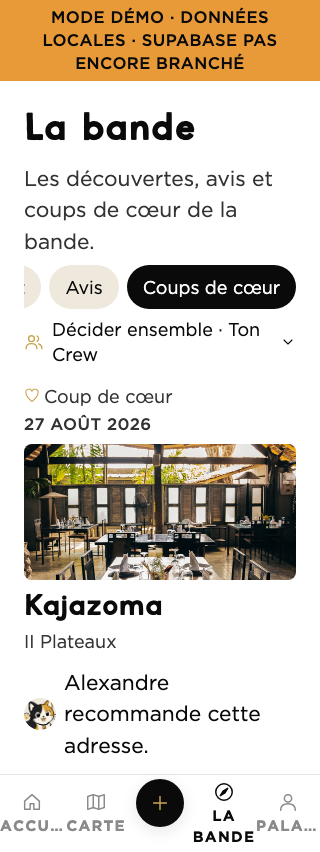
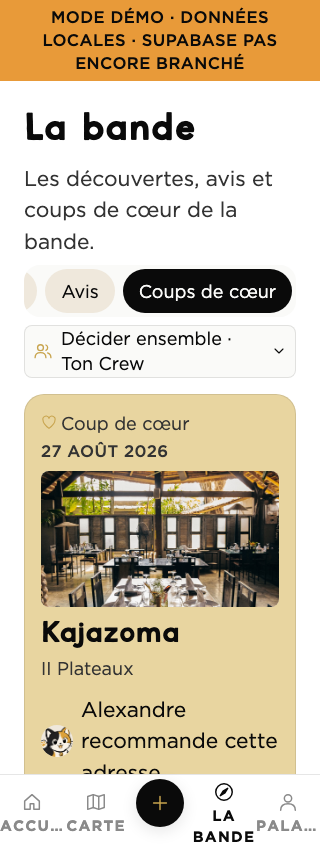
fix(ui): distinguer les blocs et garder les filtres sur une ligne

diff --git a/app/app/(tabs)/meute.tsx b/app/app/(tabs)/meute.tsx
@@ -100,13 +100,20 @@ export default function MeuteScreen() {
               horizontal
               showsHorizontalScrollIndicator={false}
               testID="community-filters"
+              style={{
+                backgroundColor: theme.colors.surface.editorial,
+                borderRadius: theme.radius.lg,
+              }}
               accessibilityRole="radiogroup"
               onLayout={(event) => {
                 filterWidth.current = event.nativeEvent.layout.width;
                 revealFilter();
               }}
               onContentSizeChange={() => revealFilter()}
-              contentContainerStyle={{ gap: theme.spacing.sm }}
+              contentContainerStyle={{
+                gap: theme.spacing.sm,
+                padding: theme.spacing.xs,
+              }}
             >
               {(["all", "review", "coup"] as CommunityFilter[]).map((value) => (
                 <Pressable
@@ -159,6 +166,11 @@ export default function MeuteScreen() {
                   onPress={() => setCrewExpanded((value) => !value)}
                   style={{
                     minHeight: 44,
+                    paddingHorizontal: theme.spacing.sm,
+                    borderRadius: theme.radius.md,
+                    backgroundColor: theme.colors.surface.editorial,
+                    borderWidth: 1,
+                    borderColor: theme.colors.border.subtle,
                     flexDirection: "row",
                     alignItems: "center",
                     gap: theme.spacing.sm,

diff --git a/app/src/components/HomeEditorial.tsx b/app/src/components/HomeEditorial.tsx
@@ -121,7 +121,14 @@ export function HomeEditorial({
       }));
 
   return (
-    <View testID="home-editorial" style={{ marginTop: theme.spacing.base }}>
+    <View
+      testID="home-editorial"
+      style={{
+        marginTop: theme.spacing.base,
+        paddingVertical: theme.spacing.base,
+        backgroundColor: theme.colors.surface.subtle,
+      }}
+    >
       {selections && enabled ? (
         <DataLoadNotice
           loading={loading}
@@ -199,7 +206,7 @@ function EditorialCard({
         width,
         borderRadius: theme.radius.card,
         overflow: "hidden",
-        backgroundColor: theme.colors.surface.subtle,
+        backgroundColor: theme.colors.surface.raised,
         opacity: pressed ? 0.8 : 1,
       })}
     >

diff --git a/app/src/components/CommunityActivityCard.tsx b/app/src/components/CommunityActivityCard.tsx
@@ -41,9 +41,14 @@ export function CommunityActivityCard({ item }: { item: MeuteActivityItem }) {
       testID={`community-${item.kind}-${item.id}`}
       style={{
         marginBottom: theme.spacing.lg,
-        borderBottomWidth: 1,
-        borderBottomColor: theme.colors.border.subtle,
-        paddingBottom: theme.spacing.sm,
+        borderWidth: 1,
+        borderColor: theme.colors.border.subtle,
+        borderRadius: theme.radius.card,
+        padding: theme.spacing.base,
+        backgroundColor:
+          item.kind === "coup"
+            ? theme.colors.surface.recommendation
+            : theme.colors.surface.subtle,
       }}
     >
       <View

diff --git a/app/app/(tabs)/index.tsx b/app/app/(tabs)/index.tsx
@@ -266,7 +266,13 @@ export default function HomeD() {
           </Pressable>
         </View>
 
-        <View style={{ marginTop: theme.spacing.sm }}>
+        <View
+          style={{
+            marginTop: theme.spacing.sm,
+            paddingVertical: theme.spacing.sm,
+            backgroundColor: theme.colors.surface.editorial,
+          }}
+        >
           <ModeStories
             selectedMode={selectedMode}
             onModePress={setSelectedMode}

diff --git a/app/src/theme/tokens.ts b/app/src/theme/tokens.ts
@@ -55,6 +55,8 @@ export const tokens = {
     inverse: palette.black, // moments gr-night (luxe / identité)
     raised: palette.pureWhite, // --bg-card : cartes, surfaces élevées
     subtle: palette.cremeSable, // --bg-warm : encarts, cartes douces
+    editorial: palette.blancCasse, // contrôles et contenus secondaires
+    recommendation: palette.goldLight, // recommandation rare de la bande
   },
   text: {
     primary: palette.black, // --ink

diff --git a/scripts/android-qa.py b/scripts/android-qa.py
@@ -6,7 +6,7 @@ import os, re, json, time, pathlib, subprocess, xml.etree.ElementTree as ET, url
 OUT=pathlib.Path('android-proof'); OUT.mkdir(exist_ok=True)
 PACKAGE='com.upgraders.spawt'; PLACE='a1000000-0000-4000-8000-000000000004'
 PHONE=os.environ['SPAWT_QA_PHONE']; MODE=os.environ.get('SPAWT_QA_MODE','observe')
-OWNER={'+2250000000193':'6445b010-5e4d-4322-9d4d-ea5a31fd922e','+2250000000194':'dca6b8a2-0c57-4adb-8858-93736370d3ed'}[PHONE]
+OWNER={'+2250000000101':'fc8bc9b3-0bbb-447f-85a3-fe4bc0d4ed05','+2250000000193':'6445b010-5e4d-4322-9d4d-ea5a31fd922e','+2250000000194':'dca6b8a2-0c57-4adb-8858-93736370d3ed'}[PHONE]
 RESULTS=[]
 RUN=os.environ.get('GITHUB_RUN_ID',str(int(time.time())))
 MARKER='Recette native SPAWT 1.1.1 '+RUN
@@ -57,7 +57,7 @@ def restart():
     # Android sur son dernier onglet ; ce n'est pas le parcours testé ici.
     adb('shell','am','force-stop',PACKAGE)
     adb('shell','am','start','-W','-n',PACKAGE+'/.MainActivity')
-    find('Feed',timeout=40,exact=True)
+    find('Accueil',timeout=40,exact=True)
 def snap(name):
     (OUT/(name+'.png')).write_bytes(adb('exec-out','screencap','-p',binary=True))
     tree,raw=nodes(); (OUT/(name+'.xml')).write_text(raw)
@@ -93,11 +93,11 @@ def login(phone):
     find('otp-cell-0',timeout=45)
     for i,digit in enumerate('123456'):
         tap(f'otp-cell-{i}'); adb('shell','input','text',digit)
-    find('Feed',timeout=40,exact=True)
+    find('Accueil',timeout=40,exact=True)
     time.sleep(1)
 
 def home():
-    deep(''); find('Feed',exact=True)
+    deep(''); find('Accueil',exact=True)
 
 def back(): adb('shell','input','keyevent','4'); time.sleep(.5)
 
@@ -239,7 +239,33 @@ try:
         adb('shell','settings','put','global',key,0)
     login(PHONE)
     snap('signed-in')
-    if MODE=='observe':
+    if MODE=='community':
+        # Existing alpha account; this path never publishes, saves or changes backend data.
+        for width in [320,360,393,430]:
+            for scale in [1,1.3,1.5]:
+                geometry(width,scale); deep('meute')
+                find('community-filter-all'); snap(f'bande-{width}-{scale}-all')
+                for value in ['coup','review','all','coup','all']:
+                    try: tap('community-filter-'+value,timeout=3)
+                    except AssertionError:
+                        b=bounds(find('community-filters'))
+                        x1,x2=(b[2]-20,b[0]+20) if value=='coup' else (b[0]+20,b[2]-20)
+                        adb('shell','input','swipe',x1,(b[1]+b[3])//2,x2,(b[1]+b[3])//2,300)
+                        tap('community-filter-'+value)
+                    selected=bounds(find('community-filter-'+value))
+                    check(f'{width}-{scale}: {value} touch height', selected[3]-selected[1]>=44*3-3)
+                snap(f'bande-{width}-{scale}-selected')
+        geometry(393,1); deep('meute'); find('community-filter-review'); tap('community-filter-review')
+        time.sleep(2); tree=snap('bande-avis-publics')
+        cards=[n for n in tree.iter('node') if n.get('resource-id','').startswith('community-place-')]
+        check('public activity card visible',bool(cards))
+        tap_node(cards[0]); snap('bande-place-opened'); back(); find('community-filter-review')
+        check('place round trip returns to community',True)
+        restart(); deep('meute'); find('community-filter-all'); snap('bande-after-restart')
+        check('community restored after process restart',True)
+        home(); find('home-mode-suggestions'); snap('home-suggestions-native')
+        tap('home-mode-traine'); snap('home-se-poser-native'); tap('home-mode-suggestions')
+    elif MODE=='observe':
         deep('place/'+PLACE); find('La Grande République'); snap('place-initial')
     elif MODE=='photos':
         photo_and_network_cases()

diff --git a/documentation/ANDROID_1_1_1_BUILD29_BANDE.md b/documentation/ANDROID_1_1_1_BUILD29_BANDE.md
@@ -4,6 +4,9 @@
 
 Demande du 13 octobre : terminer cette version et compiler l’APK avec Expo.
 Même branche `codex/audit-avant-compilation`, PR 13 toujours ouverte/brouillon.
+La demande finale conserve tous les filtres sur une seule ligne horizontale défilante.
+Les fonds distinguent les fonctions : sélecteur clair, éditorial sur crème avec cartes blanches,
+avis sur crème et coups de cœur sur or clair. Les libellés et icônes doublent ce repère coloré.
 Les changements d’Accueil déjà présents sont conservés : quatre choix discrets,
 SVG dédiés, carrousel indépendant du classement Palais, photos et illustration de secours.
 
